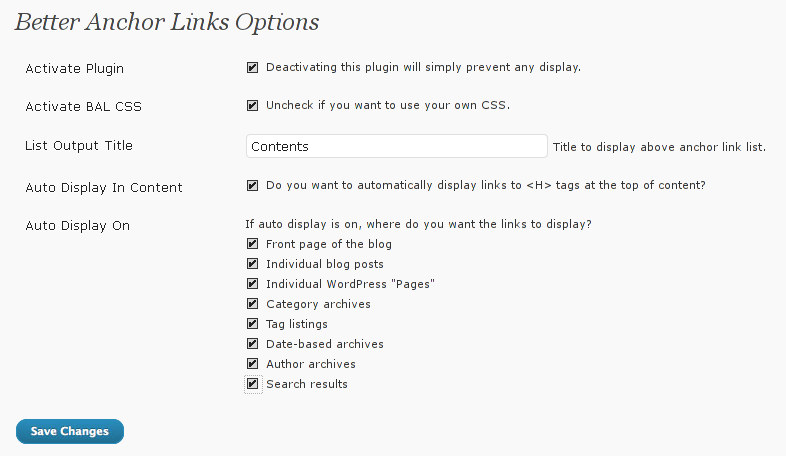
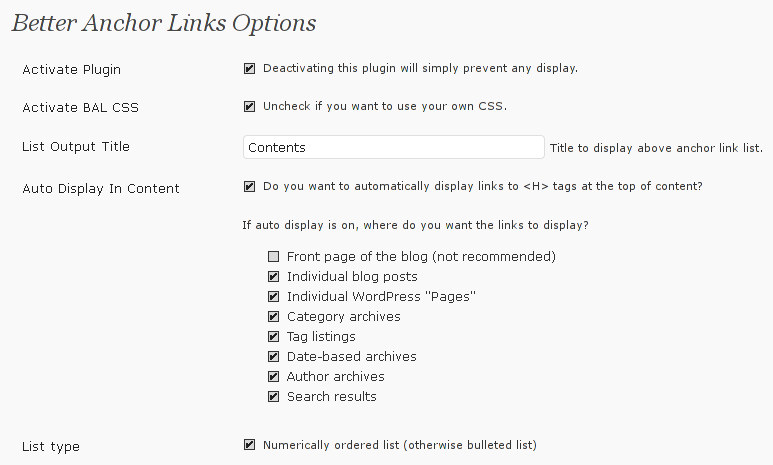
version 1.3
git-svn-id: https://plugins.svn.wordpress.org/better-anchor-links/trunk@413422 b8457f37-d9ea-0310-8a92-e5e31aec5664

diff --git a/css/mwm-aal.css b/css/mwm-aal.css
@@ -2,6 +2,7 @@
 .mwm-aal-container{font-size:12px; padding: 5px; border-top:1px solid #ccc; border-bottom: 1px solid #ccc; margin: 2px 0px;}
 .mwm-aal-container .mwm-aal-title{font-size: 14px; font-weight: bold;}
 ol li{ margin-bottom: 2px;}
+ul li{ margin-bottom: 1px;}
 
 /* Sidebar */
 .mwm-aal-sidebar-container{}

diff --git a/admin/options.php b/admin/options.php
@@ -11,6 +11,7 @@ if(preg_match('#' . basename(__FILE__) . '#', $_SERVER['PHP_SELF'])) { die('You 
 			}
 		
 			// Save options
+			//print_r ($mwm_aalLoader->options);
 			update_option('lm_bal_options', $mwm_aalLoader->options);
 			$mwm_aalLoader->show_message(__('Updated Successfully','mwmall'));
 			
@@ -21,14 +22,9 @@ if(preg_match('#' . basename(__FILE__) . '#', $_SERVER['PHP_SELF'])) { die('You 
 <div class="wrap">
 	<h2>Better Anchor Links Options</h2>
 	
-	
-	
-	
-	
-	
 	<form name="generaloptions" method="post">
 	<?php wp_nonce_field('ngg_settings') ?>
-	<input type="hidden" name="page_options" value="activatePlugin,activateCSS,autoDisplayInContent,displayTitle,displayPosts,displayPages,contentColumnCount,is_home,is_single,is_page,is_category,is_tag,is_date,is_author,is_search" />
+	<input type="hidden" name="page_options" value="activatePlugin,activateCSS,autoDisplayInContent,displayTitle,displayPosts,displayPages,contentColumnCount,is_home,is_single,is_page,is_category,is_tag,is_date,is_author,is_search,is_numbering" />
 		<table class="form-table">
 			<tr  valign="top">
 				<th scope="row" valign="top" align="left"><?php _e('Activate Plugin','mwmaal') ?></th>
@@ -43,7 +39,7 @@ if(preg_match('#' . basename(__FILE__) . '#', $_SERVER['PHP_SELF'])) { die('You 
 
 
 
-					<div style="text-align:center;">
+					<div style="text-align:none;">
 					Luděk Melichar <br>
 					<a href="http://ludek.org"><small>ludek.org</small></a>
 
@@ -62,6 +58,8 @@ if(preg_match('#' . basename(__FILE__) . '#', $_SERVER['PHP_SELF'])) { die('You 
 					</a>
 					
 						</p>
+					<h2 style="margin-top:0px;"><?php _e('Vote','mwmaal'); ?></h2><a href="http://wordpress.org/extend/plugins/better-anchor-links/"><img align=right src="<?php echo plugins_url('vote.jpg', __FILE__);?>" />
+                    <p><?php _e('Vote for your combination on plugin home, you help others. ','mwmaal'); ?></a></p> 
 
 		</td>
 	   <!--  ======= END Credits ============= -->
@@ -88,10 +86,11 @@ if(preg_match('#' . basename(__FILE__) . '#', $_SERVER['PHP_SELF'])) { die('You 
 				</td>
 			</tr>
 			<tr  valign="top">
-				<th scope="row" valign="top" align="left"><?php _e('Auto Display On','mwmaal') ?></th>
+				<th scope="row" valign="top" align="left"></th>
 				<td>
 				<?php _e('If auto display is on, where do you want the links to display?','mwmaal') ?><br/>
-			<input type="checkbox" name="is_home" value="1" <?php checked($mwm_aalLoader->options['is_home']); ?> /> <?php _e("Front page of the blog", 'mwmaal'); ?><br/>
+				<BLOCKQUOTE><BLOCKQUOTE>
+			<input type="checkbox" name="is_home" value="1" <?php checked($mwm_aalLoader->options['is_home']); ?> /> <?php _e("Front page of the blog (not recommended)", 'mwmaal'); ?><br/>
 			<input type="checkbox" name="is_single" value="1" <?php checked($mwm_aalLoader->options['is_single']); ?> /> <?php _e("Individual blog posts", 'mwmaal'); ?><br/>
 			<input type="checkbox" name="is_page" value="1" <?php checked($mwm_aalLoader->options['is_page']); ?> /> <?php _e('Individual WordPress "Pages"', 'mwmaal'); ?><br/>
 			<input type="checkbox" name="is_category" value="1" <?php checked($mwm_aalLoader->options['is_category']); ?> /> <?php _e("Category archives", 'mwmaal'); ?><br/>
@@ -99,9 +98,16 @@ if(preg_match('#' . basename(__FILE__) . '#', $_SERVER['PHP_SELF'])) { die('You 
 			<input type="checkbox" name="is_date" value="1" <?php checked($mwm_aalLoader->options['is_date']); ?> /> <?php _e("Date-based archives", 'mwmaal'); ?><br/>
 			<input type="checkbox" name="is_author" value="1" <?php checked($mwm_aalLoader->options['is_author']); ?> /> <?php _e("Author archives", 'mwmaal'); ?><br/>
 			<input type="checkbox" name="is_search" value="1" <?php checked($mwm_aalLoader->options['is_search']); ?> /> <?php _e("Search results", 'mwmaal'); ?><br/>
-		
+				</BLOCKQUOTE></BLOCKQUOTE>
 				</td>
 			</tr>
+			<tr  valign="top">
+				<th scope="row" valign="top" align="left"><?php _e('List Output Type','mwmaal') ?></th>
+				<td>
+			<input type="checkbox" name="is_numbering" value="1" <?php checked($mwm_aalLoader->options['is_numbering']); ?> /> <?php _e("Numerically ordered list (otherwise bulleted list)", 'mwmaal'); ?><br />
+		
+				</td>
+			</tr> 
 			<!--<tr  valign="top">
 				<th scope="row" valign="top" align="left"><?php _e('# of Columns in Content','mwmaal') ?></th>
 				<td>

diff --git a/auto-anchor-list.php b/auto-anchor-list.php
@@ -4,7 +4,7 @@ Plugin Name: Better Anchor Links
 Plugin URI: http://ludek.org/bal/index.html
 Description: Automatically creates and displays anchor links.
 Author: Luděk Melichar
-Version: 1.2
+Version: 1.3
 Author URI: http://ludek.org
 */
 
@@ -29,11 +29,12 @@ Foundation, Inc., 51 Franklin St, Fifth Floor, Boston, MA  02110-1301  USA
 if (!class_exists('mwm_aalLoader')) {
 	class mwm_aalLoader{
 		
-		var $version     = '1.2';
+		var $version     = '1.3';
 		var $options     = '';
 		var $links = array();
 	
 		function mwm_aalLoader(){
+			$this->upgra_options();
 			$this->load_options();					
 			$this->define_constants();
 			$this->load_dependencies();
@@ -41,6 +42,17 @@ if (!class_exists('mwm_aalLoader')) {
 			register_sidebar_widget('Better Anchor Links', array(&$this, 'widget'));
 		}
 		
+		function upgra_options(){
+			$options = get_option('lm_bal_options');
+			if (!empty( $options ) ){
+				if (!array_key_exists('is_numbering', $options))
+				{
+					$lm_bal_options=$options ;
+					$lm_bal_options['is_numbering'] = true;
+					update_option('lm_bal_options', $lm_bal_options); 
+				}
+			}
+		}
 		
 		function load_options(){
 			// Load the options
@@ -69,8 +81,6 @@ if (!class_exists('mwm_aalLoader')) {
 			}
 		}
 		
-		
-		
 		function activate(){
 			$options = get_option('lm_bal_options');
 			if ( empty( $options ) ){
@@ -79,7 +89,7 @@ if (!class_exists('mwm_aalLoader')) {
 			$lm_bal_options['autoDisplayInContent'] = true;
 			$lm_bal_options['displayTitle'] = "Contents";
 			$lm_bal_options['contentColumnCount'] = 2;
-			$lm_bal_options['is_home'] = true;
+			$lm_bal_options['is_home'] = false;
 			$lm_bal_options['is_single'] = true;
 			$lm_bal_options['is_page'] = true;
 			$lm_bal_options['is_category'] = true;
@@ -87,6 +97,7 @@ if (!class_exists('mwm_aalLoader')) {
 			$lm_bal_options['is_date'] = true;
 			$lm_bal_options['is_author'] = true;
 			$lm_bal_options['is_search'] = true;
+			$lm_bal_options['is_numbering'] = true;
 
 			update_option('lm_bal_options', $lm_bal_options);
 			}

diff --git a/mwm-aal-class.php b/mwm-aal-class.php
@@ -5,7 +5,7 @@
  * @package Better Anchor Links
  * @author Luděk Melichar
  * @copyright 2011
- * @since 1.2.0
+ * @since 1.1.0
  */
 if (!class_exists('mwm_aal')) {
 	class mwm_aal{
@@ -42,14 +42,14 @@ if (!class_exists('mwm_aal')) {
 			
 			if($this->options['autoDisplayInContent'] and !$this->isTagUsed){
 			
-				if ((is_home()     and $this->options['is_home']) or
-				    (is_single()   and $this->options['is_single']) or
-				    (is_page()     and $this->options['is_page']) or
-				    (is_category() and $this->options['is_category']) or
-					(is_tag() 	   and $this->options['is_tag']) or
-				    (is_date()     and $this->options['is_date']) or
-					(is_author()   and $this->options['is_author']) or
-				    (is_search()   and $this->options['is_search'])) {
+				if ((is_home()		and $this->options['is_home']) or
+				    (is_single()	and $this->options['is_single']) or
+				    (is_page()		and $this->options['is_page']) or
+				    (is_category()	and $this->options['is_category']) or
+					(is_tag()		and $this->options['is_tag']) or
+				    (is_date()		and $this->options['is_date']) or
+					(is_author()	and $this->options['is_author']) or
+				    (is_search()	and $this->options['is_search'])) {
 				  
 					$content = $this->auto_output_content_links($content);
 				}
@@ -95,15 +95,20 @@ if (!class_exists('mwm_aal')) {
 		
 		function output_content_links(){
 			$info = "";
+			if ($this->options['is_numbering']) { 
+				$seznam="ol";
+			} else {
+				$seznam="ul";
+			}
 			if(count($this->links) >= 1){
 			$title = $this->options['displayTitle'];
 			$info = '<div class="mwm-aal-container">';
-			$info.= "<div class='mwm-aal-title'>$title</div><ol>";
+			$info.= "<div class='mwm-aal-title'>$title</div><$seznam>";
 			foreach ($this->links as $val) {
 				$urlval = urlencode(strip_tags($val[2]));
 				$info.='<li><a href="#'.$urlval.'">'.strip_tags($val[2]).'</a></li>';
 			}
-			$info .= '</ol></div>';
+			$info .= '</'.$seznam.'></div>';
 			}
 			return $info;
 		}
